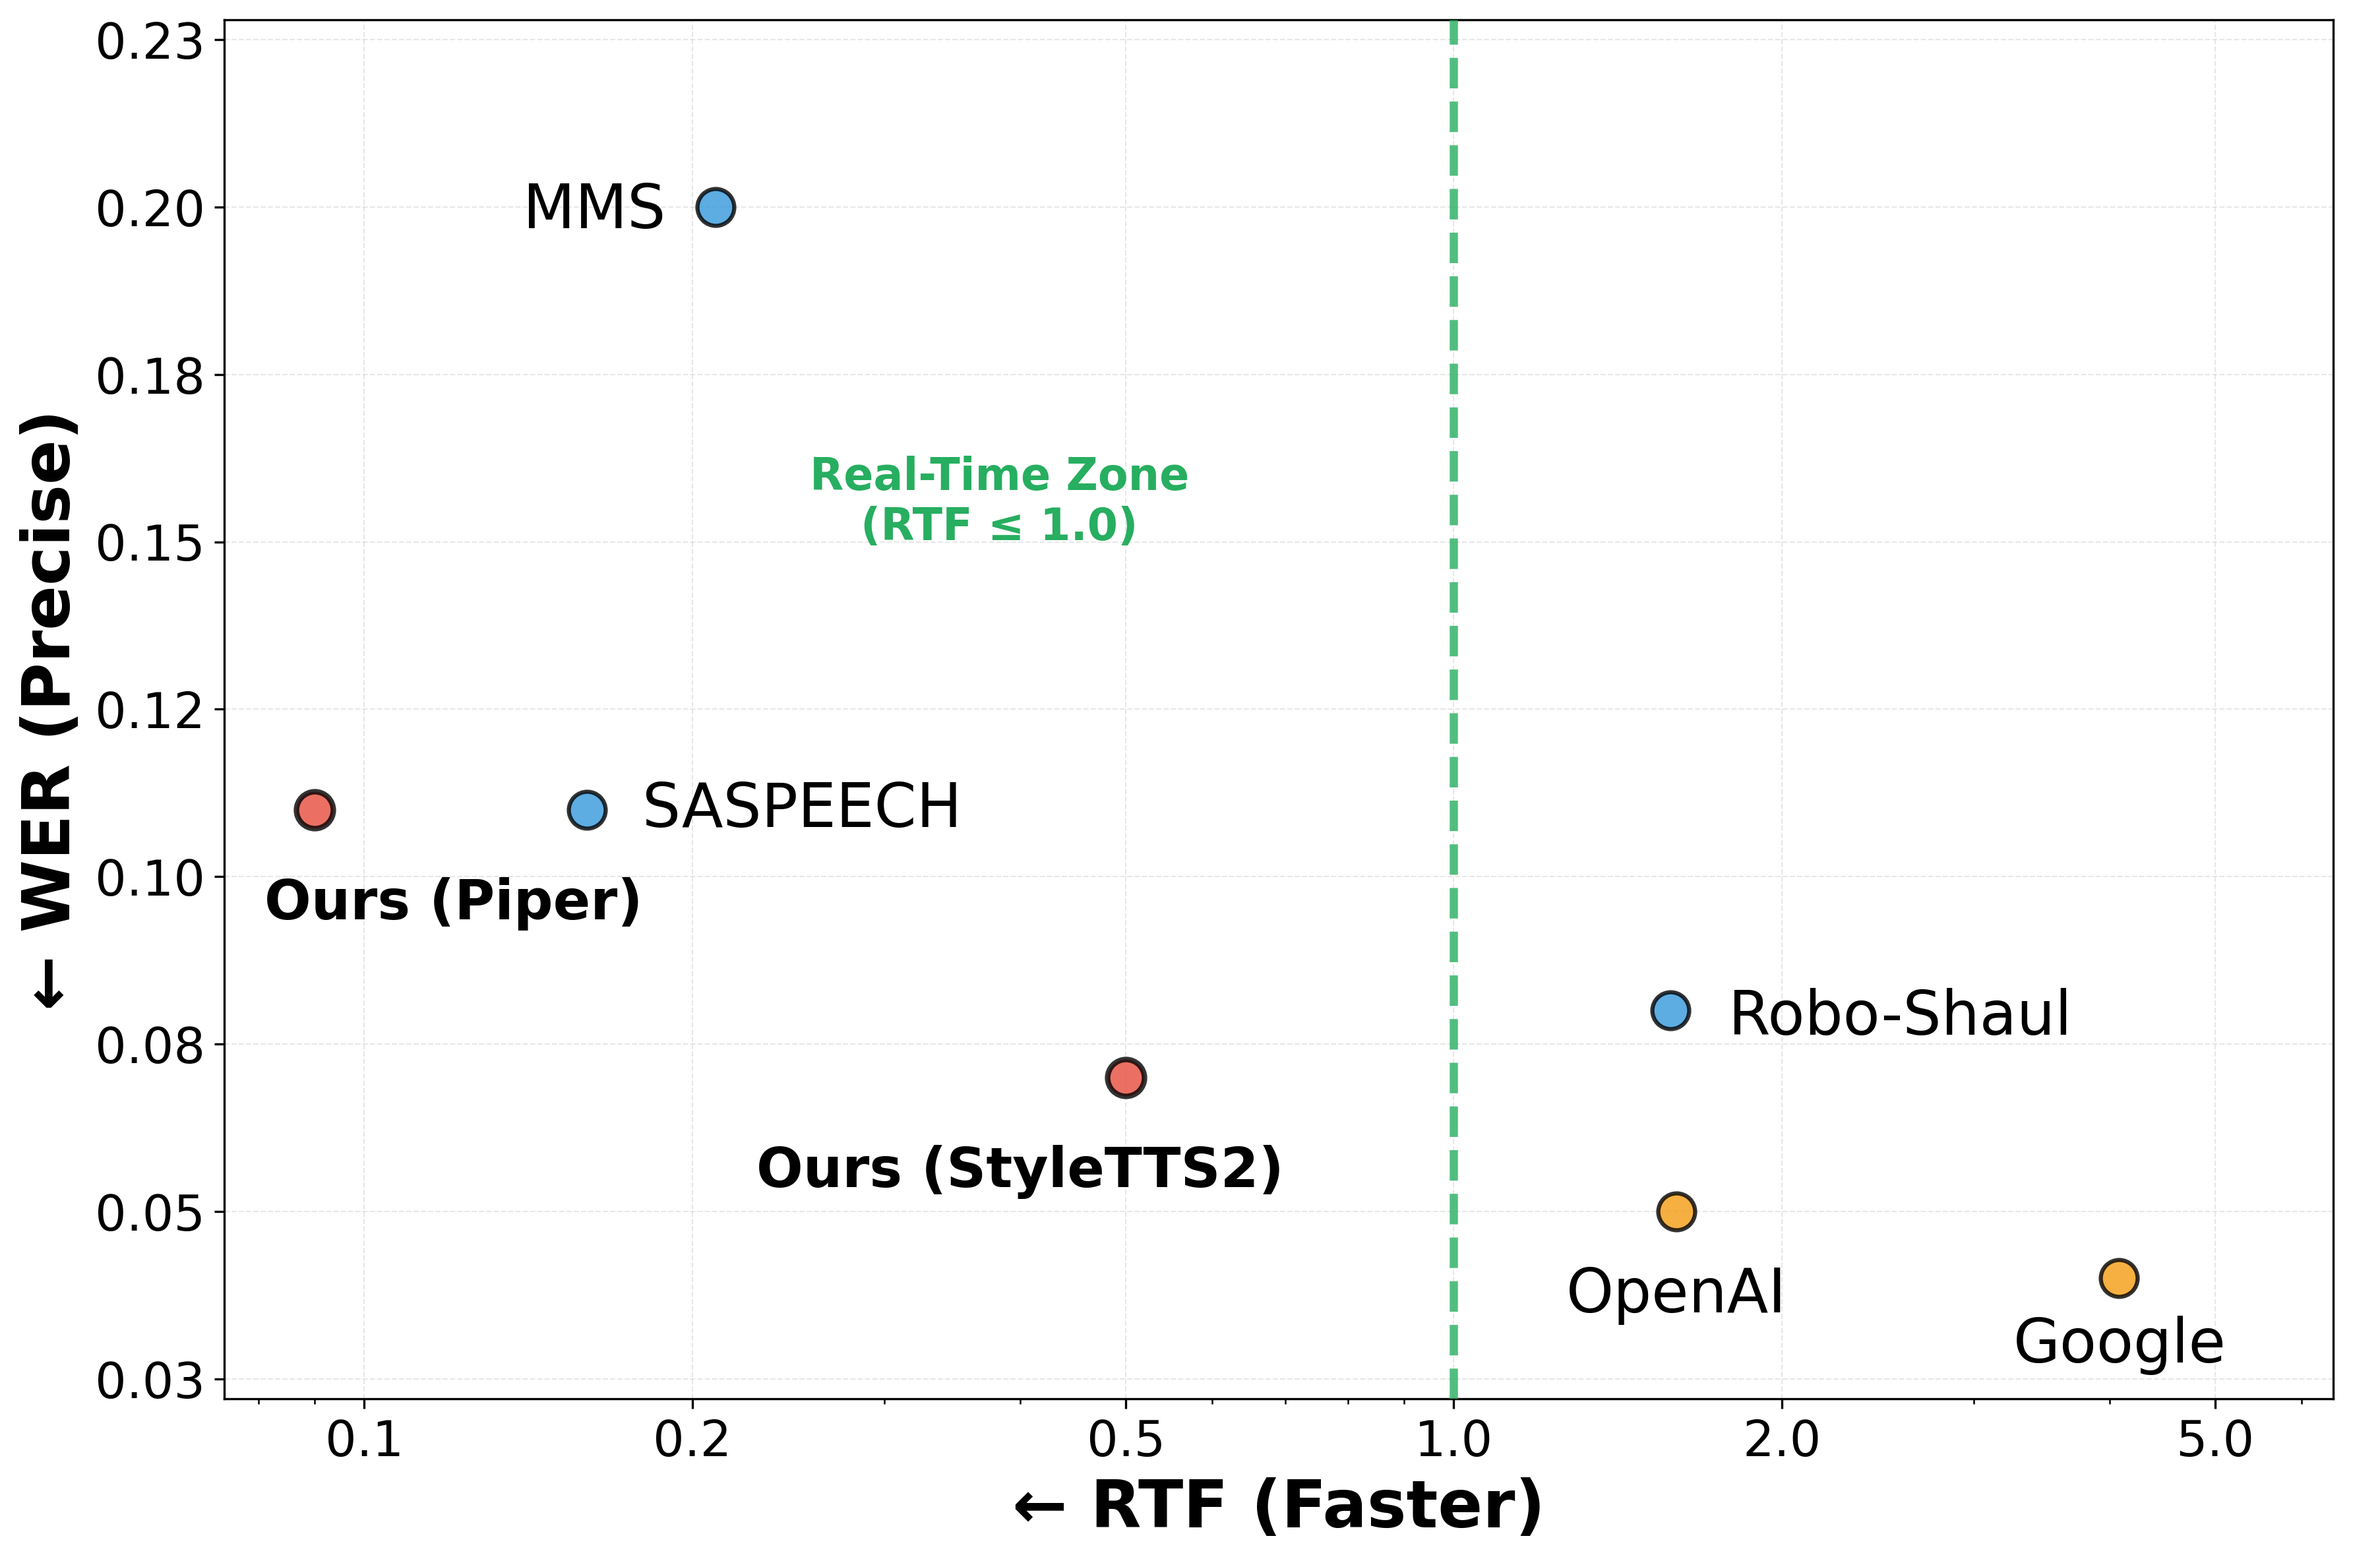
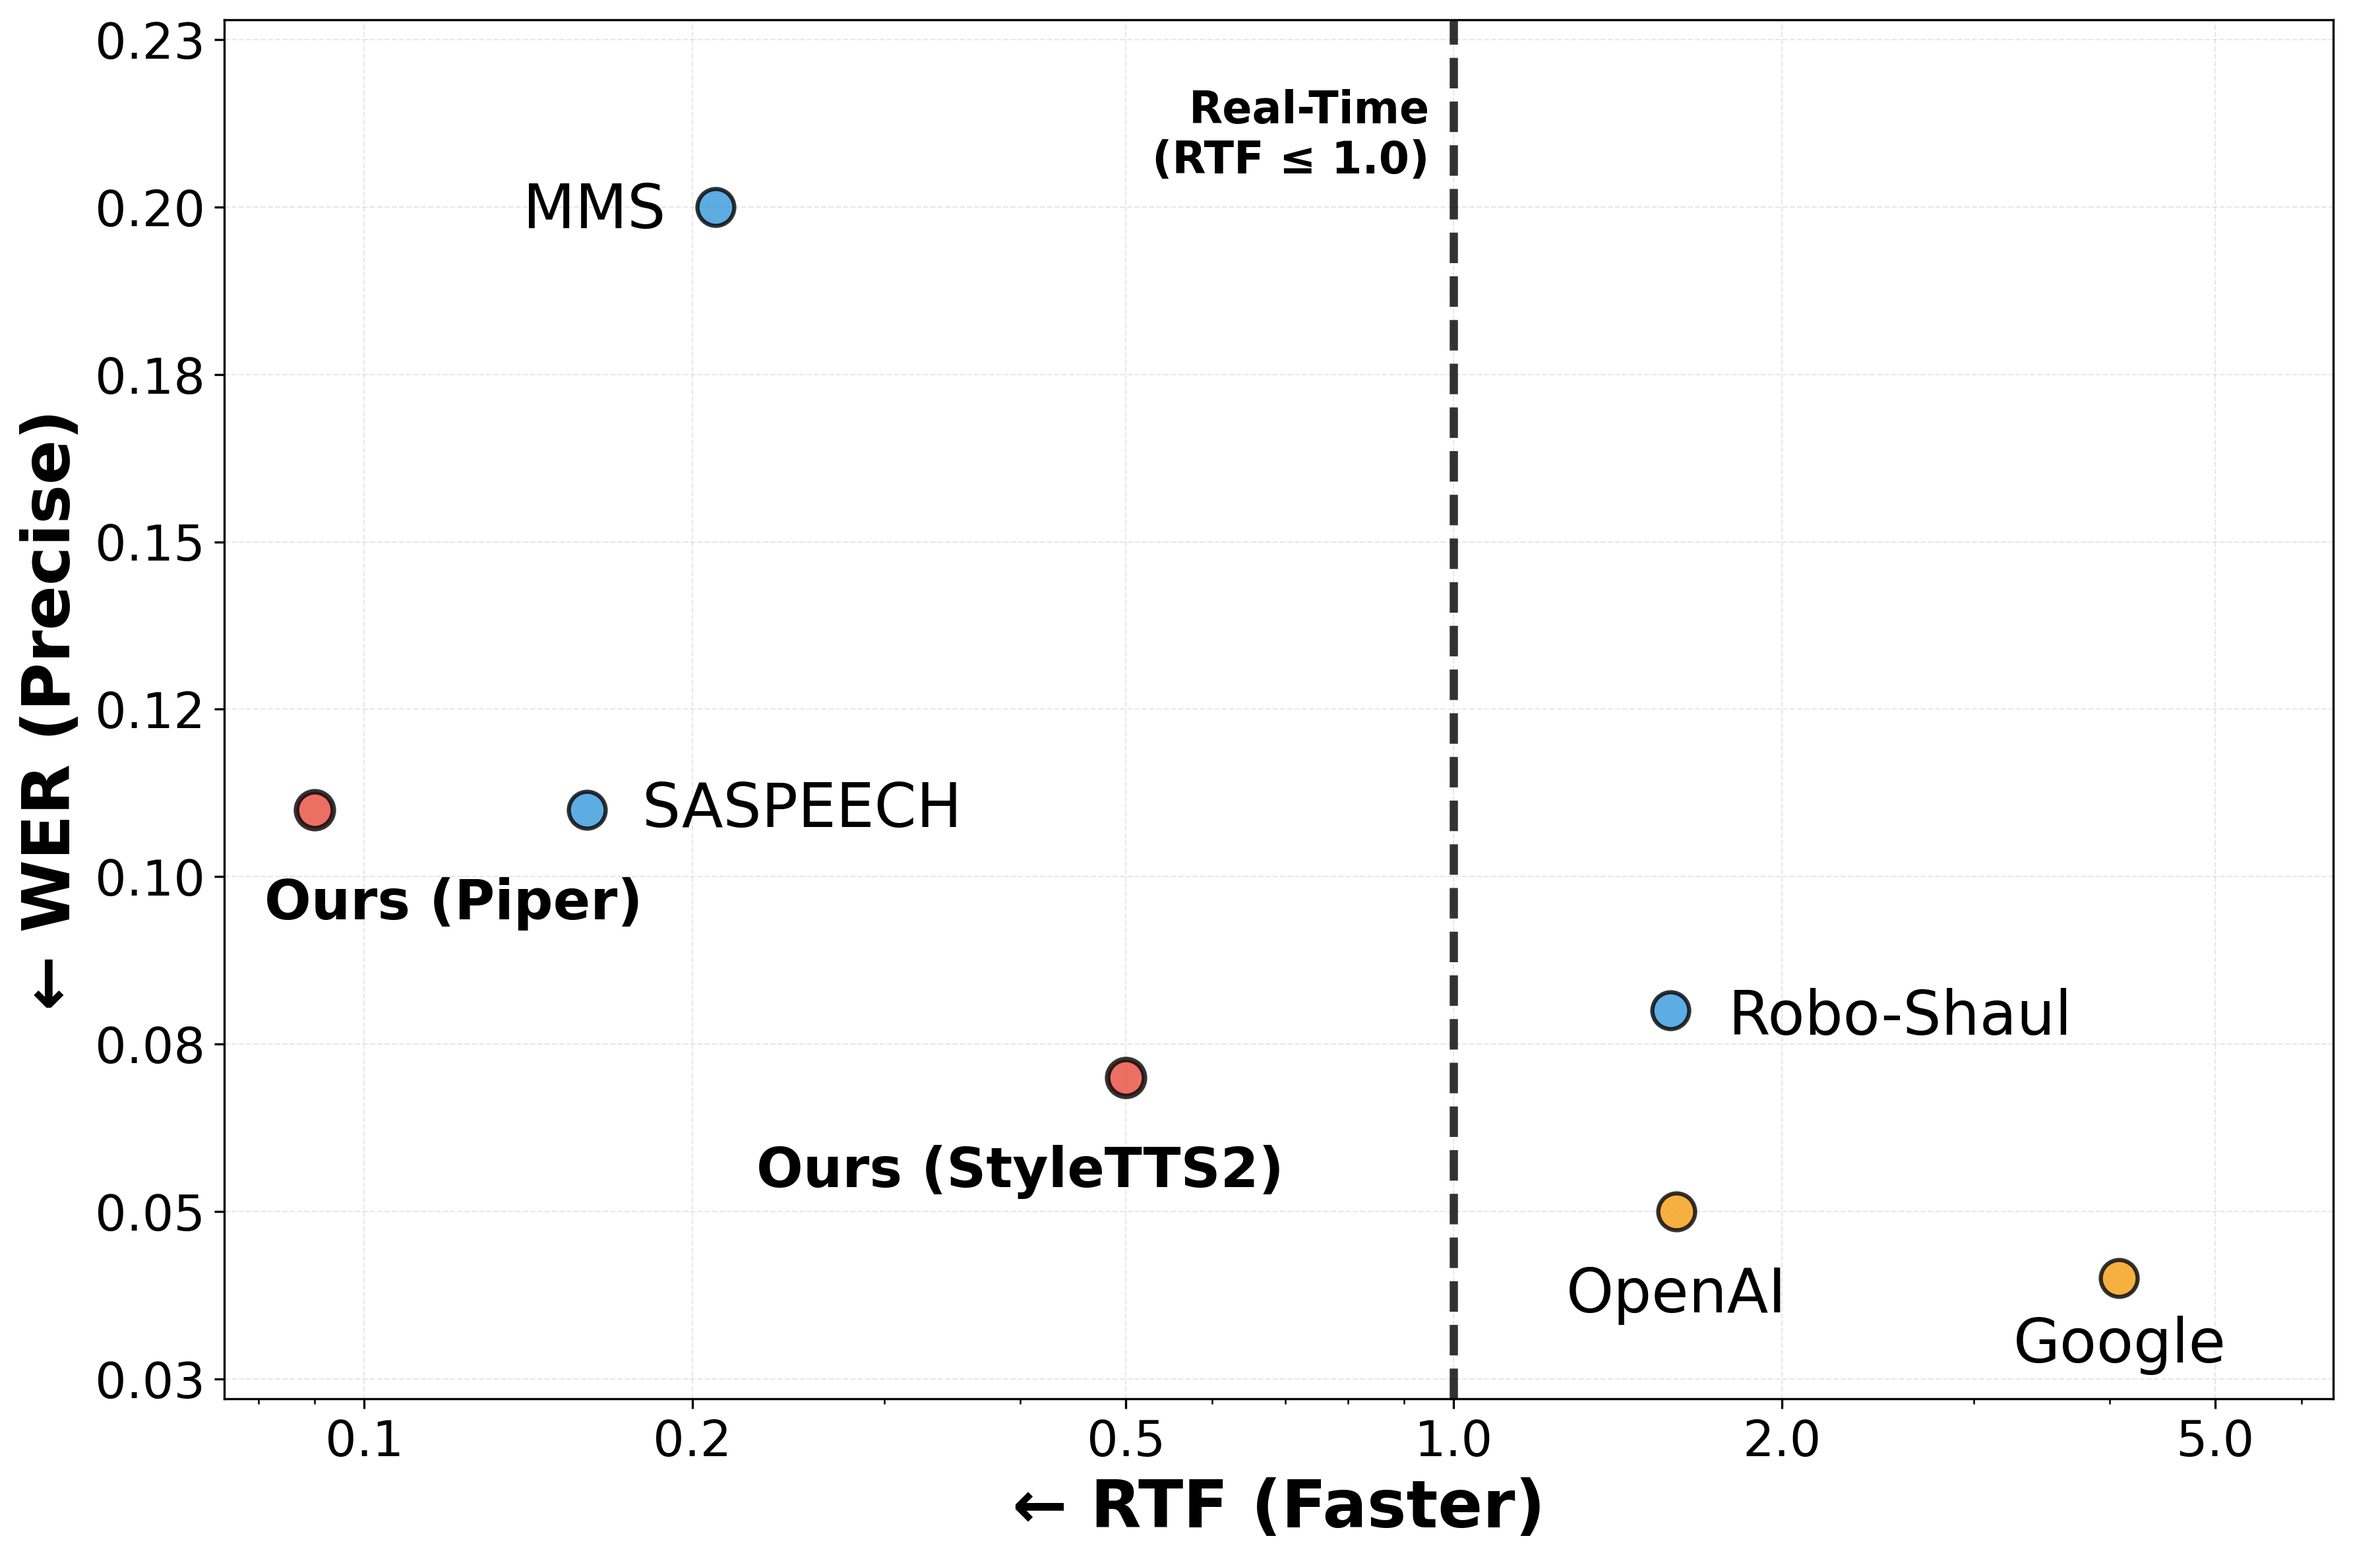
Update real-time zone visualization in rtf_plot.py for clarity and improved labeling

Changed region(s): [[0.3422, 0.2776, 0.4978, 0.3392], [0.4978, 0.0617, 0.6222, 0.1234]]

diff --git a/media/rtf_plot.py b/media/rtf_plot.py
@@ -133,15 +133,14 @@ y_min, y_max = ax.get_ylim()
 x_min, x_max = ax.get_xlim()
 
 # Draw vertical dashed line at RTF = 1.0 from top to bottom
-ax.axvline(x=1.0, color='#27ae60', linestyle='--', linewidth=3, alpha=0.8, zorder=5)
+ax.axvline(x=1.0, color="#000000", linestyle='--', linewidth=3, alpha=0.8, zorder=5)
 
-# Add text label to indicate real-time zone (left side)
-# Position it in the middle-left area of the real-time zone
-text_x = (x_min * 2 + 1.0) / 3  # About 1/3 from left edge toward 1.0
-text_y = (y_min + y_max) / 2 + (y_max - y_min) * 0.15  # A bit above middle
-ax.text(text_x, text_y, 'Real-Time Zone\n(RTF ≤ 1.0)', 
-        fontsize=16, fontweight='bold', ha='center', va='center', 
-        color='#27ae60')
+# Position text near the dashed line at the top (left side of the line)
+text_x = 0.95  # Slightly to the left of the line
+text_y = y_max - (y_max - y_min) * 0.05  # Near the top
+text_label = ax.text(text_x, text_y, 'Real-Time\n(RTF ≤ 1.0)', 
+                     fontsize=16, fontweight='bold', ha='right', va='top', 
+                     color="#000000", zorder=6)
 
 # Adjust layout to prevent labels from being cut off
 plt.tight_layout()
